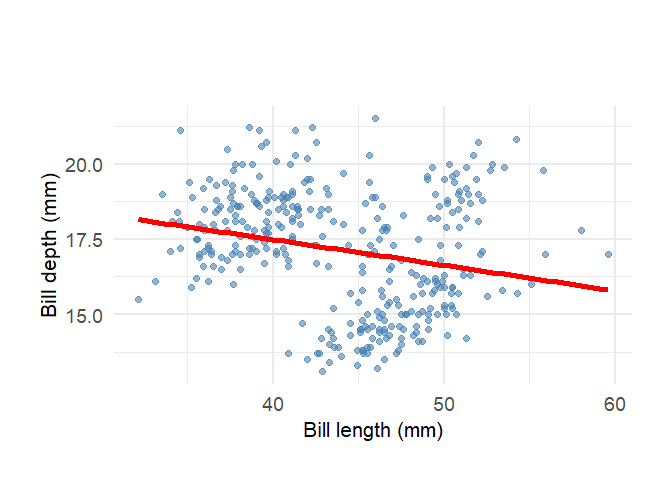
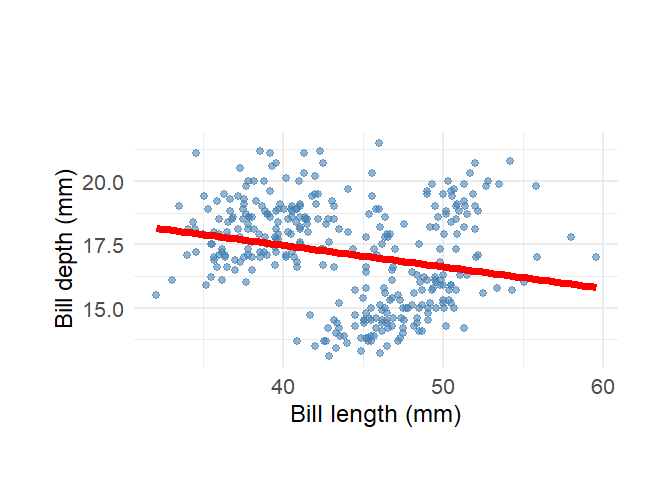
good enough

diff --git a/README.md b/README.md
@@ -45,16 +45,16 @@ plot1 <- ggplot(data = penguins,
         aes(x = bill_length_mm,
         y = bill_depth_mm)) +
   theme_minimal(18) +
-  geom_point(alpha = 0.6, color = "steelblue", size = 2) +
+  geom_point(alpha = 0.6, color = "steelblue", size = 2.5) +
   labs(x = "Bill length (mm)",
        y = "Bill depth (mm)") +
   theme(plot.title.position = "plot",
         plot.caption = element_text(hjust = 0, face= "italic"),
         plot.caption.position = "plot",
-        plot.margin = margin(t = 80, r = 30, b = 30, l = 30),
-        axis.text = element_text(size = 14),
-        axis.title = element_text(size = 16)) +
-  geom_smooth(method = "lm", se = FALSE, color = "red", linewidth = 2)
+        plot.margin = margin(t = 100, r = 40, b = 40, l = 40),
+        axis.text = element_text(size = 16),
+        axis.title = element_text(size = 18)) +
+  geom_smooth(method = "lm", se = FALSE, color = "red", linewidth = 2.5)
 
 plot1
 ```
@@ -76,7 +76,7 @@ plot2 <- ggplot(data = penguins,
            y = bill_depth_mm,
            color = species)) +
   theme_minimal(18) +
-  geom_point(alpha = 0.7, size = 2) +
+  geom_point(alpha = 0.7, size = 2.5) +
   scale_color_manual(values = c("darkorange","purple","cyan4"),
                      name = "Species") +
   labs(x = "Bill length (mm)",
@@ -85,16 +85,18 @@ plot2 <- ggplot(data = penguins,
         plot.caption = element_text(hjust = 0, face = "italic"),
         plot.caption.position = "plot",
         legend.position = "bottom",
-        plot.margin = margin(t = 80, r = 30, b = 30, l = 30),
-        axis.text = element_text(size = 14),
-        axis.title = element_text(size = 16),
-        legend.text = element_text(size = 12),
-        legend.title = element_text(size = 14)) +
+        legend.box = "horizontal",
+        legend.justification = "center",
+        plot.margin = margin(t = 100, r = 40, b = 60, l = 40),
+        axis.text = element_text(size = 16),
+        axis.title = element_text(size = 18),
+        legend.text = element_text(size = 14),
+        legend.title = element_text(size = 16)) +
   # Overall trend (ignoring species)
   geom_smooth(method = "lm", se = FALSE, color = "red", 
-              linewidth = 2, alpha = 0.8) +
+              linewidth = 2.5, alpha = 0.8) +
   # Species-specific trends
-  geom_smooth(method = "lm", se = FALSE, linewidth = 1.5)
+  geom_smooth(method = "lm", se = FALSE, linewidth = 2)
 
 plot2
 ```
@@ -116,7 +118,24 @@ relationship when we aggregate the data.
 
 ``` r
 # Create the stacked comparison using patchwork
-comparison_plot <- plot1 + plot2 
+comparison_plot <- plot1 + plot2 +
+  plot_layout(guides = "collect", heights = c(1, 1.3)) +
+  plot_annotation(
+    title = "Simpson's Paradox: When Aggregation Lies",
+    subtitle = "The relationship between bill length and depth reverses when we consider species grouping",
+    caption = "Top: Overall relationship suggests positive correlation | Bottom: Within-species analysis reveals negative correlations\nThis demonstrates how ignoring confounding variables can lead to completely wrong conclusions",
+    theme = theme_minimal(18) +
+      theme(
+        plot.title = element_text(size = 28, face = "bold", hjust = 0.5, margin = margin(b = 120)),
+        plot.subtitle = element_text(size = 20, hjust = 0.5, margin = margin(b = 140)),
+        plot.caption = element_text(size = 16, hjust = 0, face = "italic", margin = margin(t = 100)),
+        plot.title.position = "plot",
+        plot.caption.position = "plot",
+        legend.position = "bottom",
+        legend.box = "horizontal",
+        legend.justification = "center"
+      )
+  )
 
 comparison_plot
 ```
